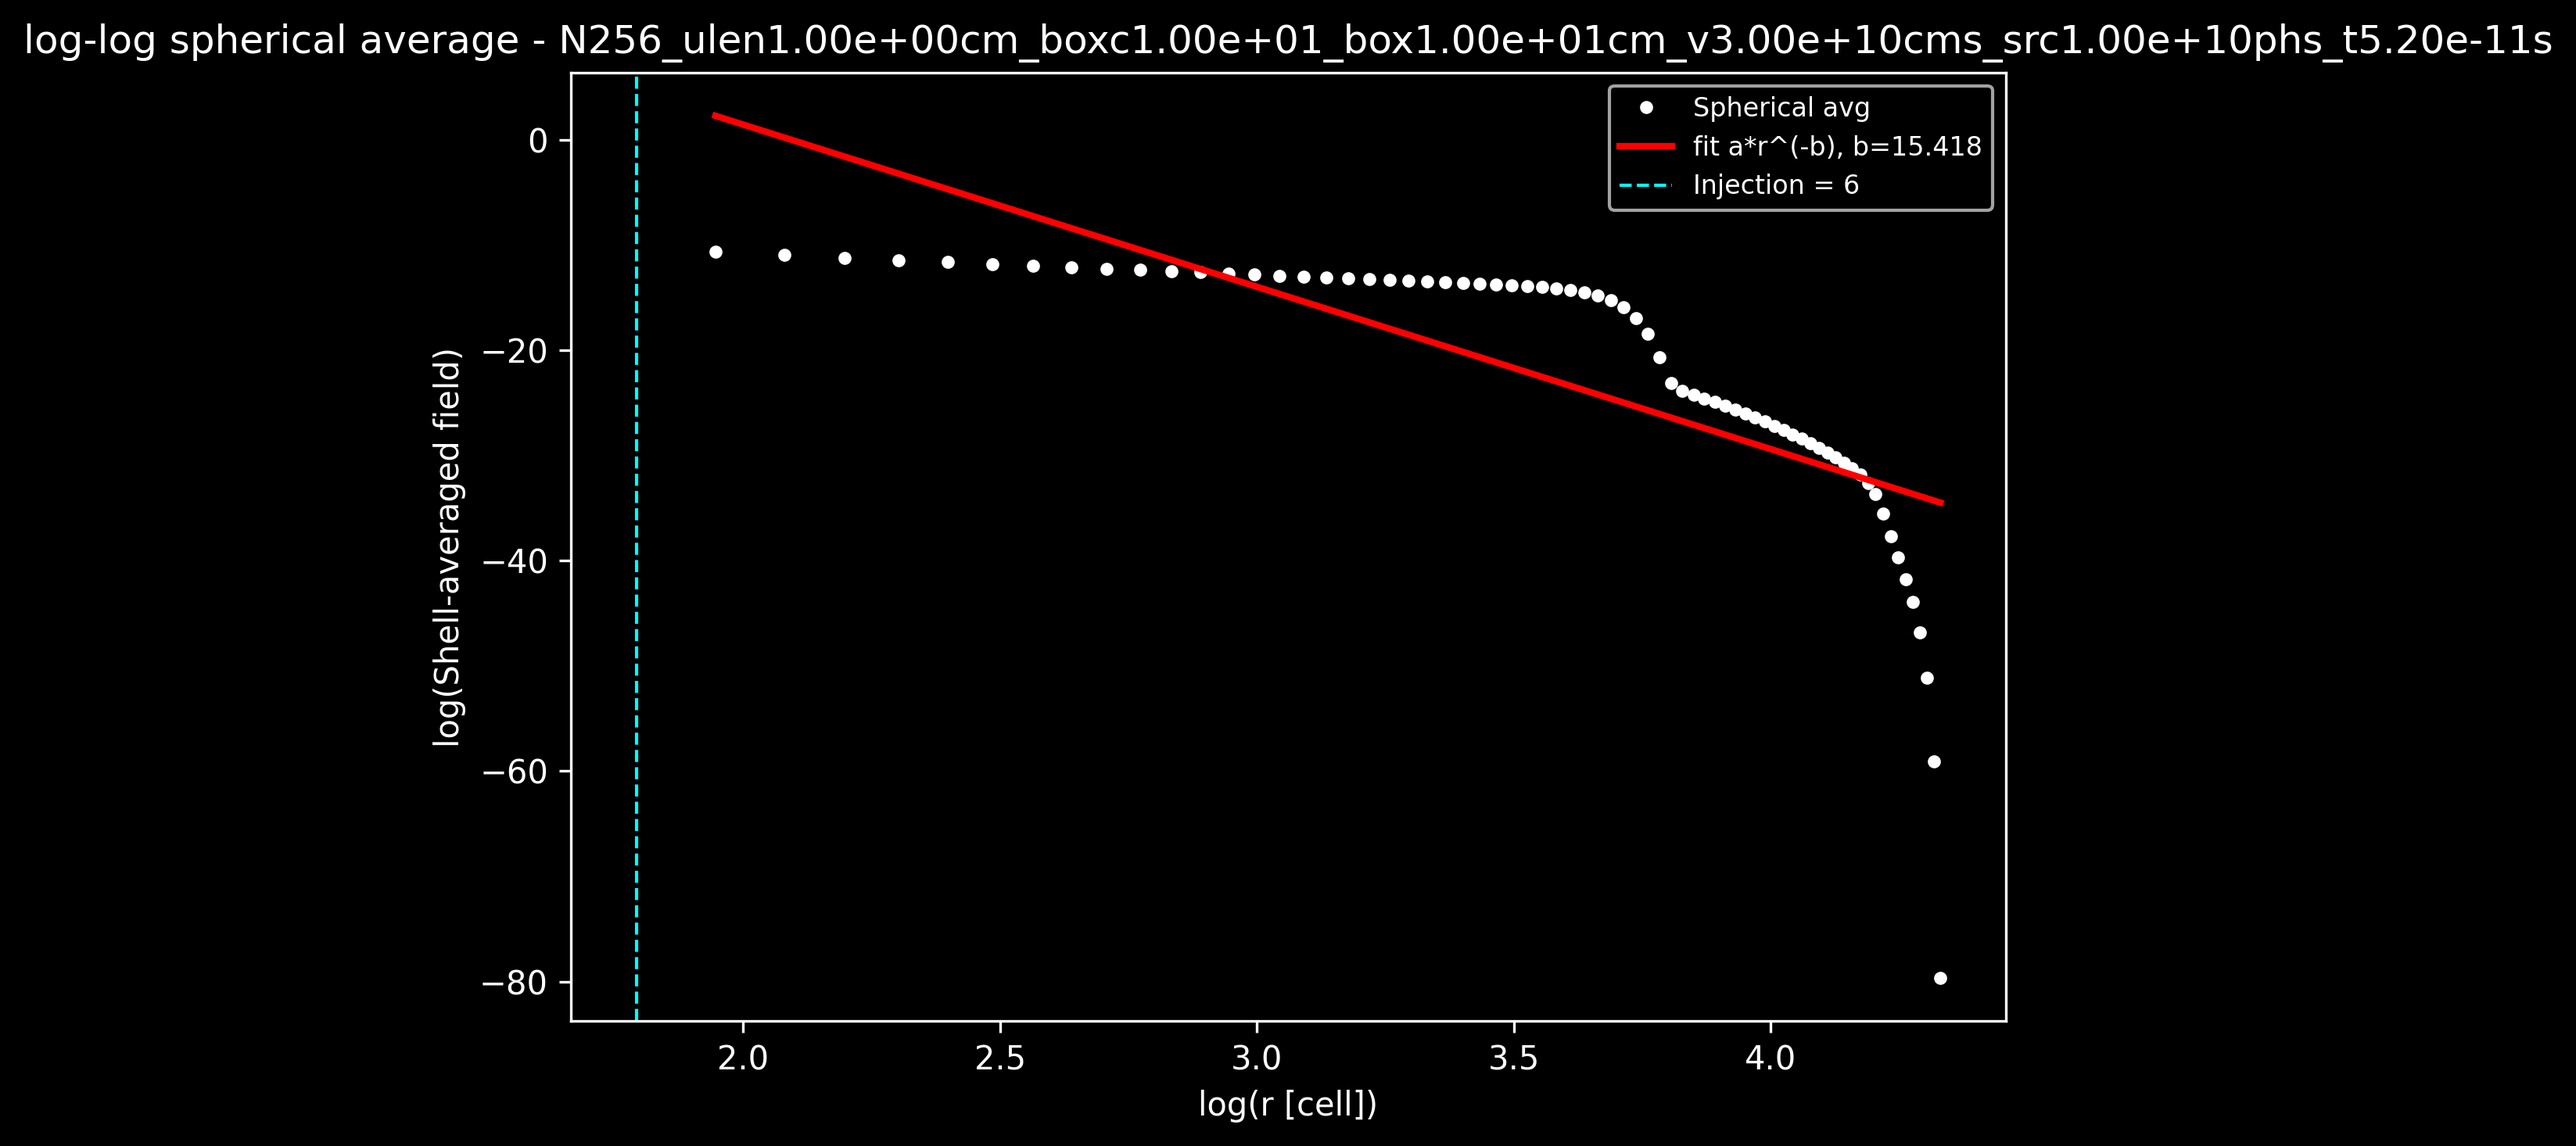
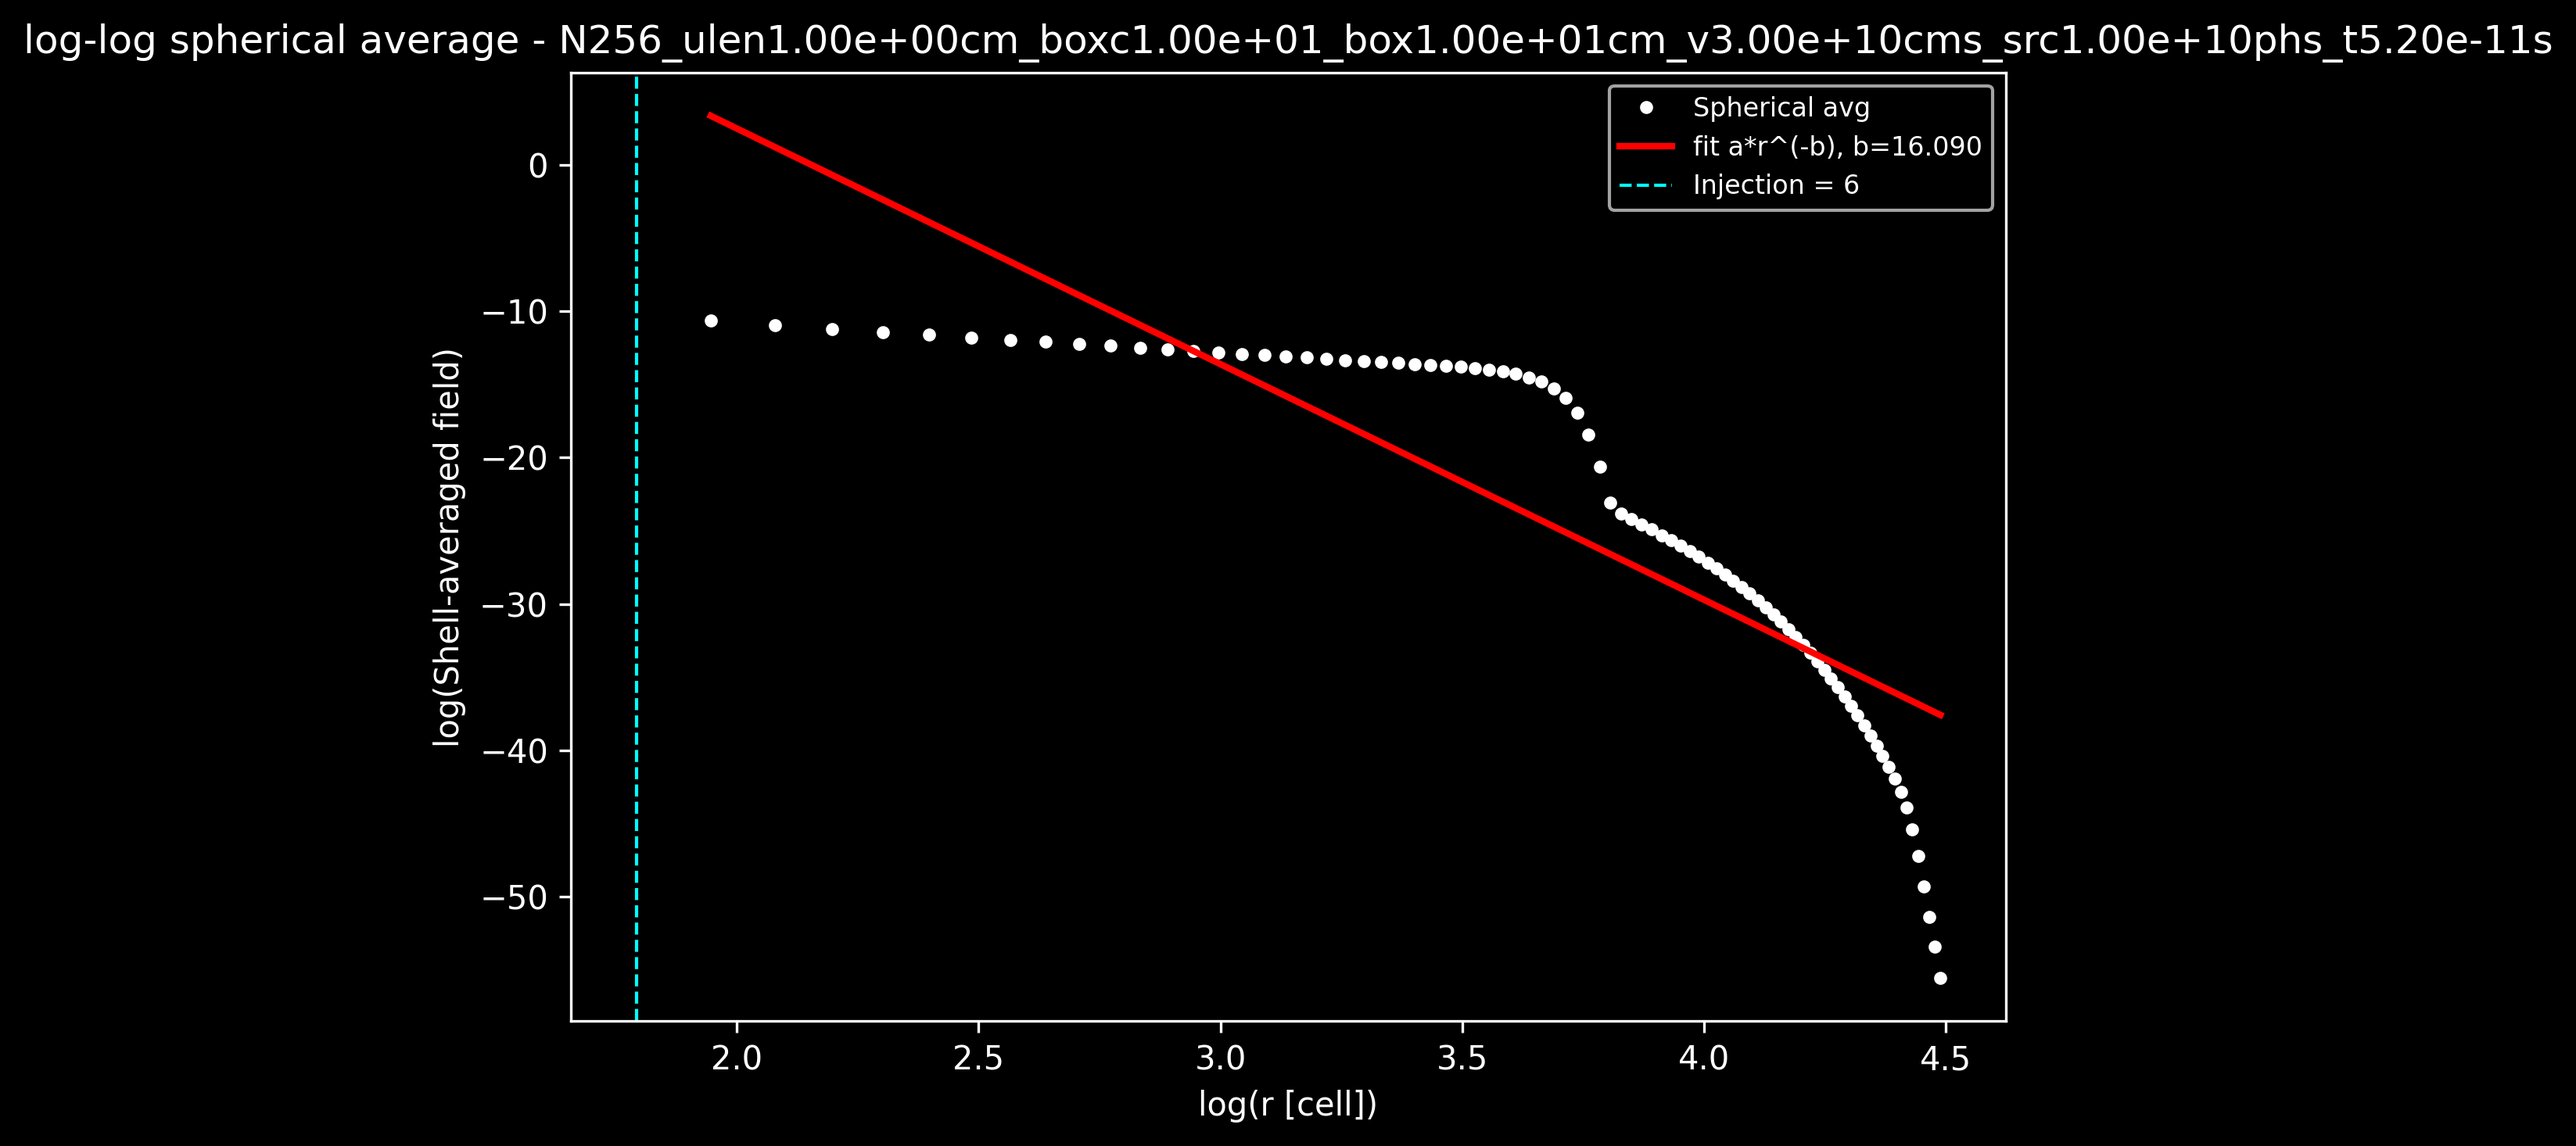
fix units choice different km pc etc ...

diff --git a/examples/athena/reference_regression_smooth_units.py b/examples/athena/reference_regression_smooth_units.py
@@ -1,33 +1,33 @@
 """
 RAMSES-RT point-source test, with units that match what the solver actually does.
 
-UNIT CONVENTION (new, unit-agnostic)
--------------------------------------
-Instead of forcing centimeters, every physical length/velocity/time input is now
-parsed through UnitParser, so the user can pass ANY supported unit string, e.g.:
+UNIT CONVENTION (new, fully unit-agnostic via UnitParser)
+----------------------------------------------------------
+Every physical length/velocity/time input can now be given in ANY unit known to
+diffhydro.units.registry.UnitParser (cm, m, km, pc, kpc for length; cm/s, m/s,
+km/s for velocity; s for time; ...). Each input is parsed once, converted to cgs
+immediately, and everything downstream (dx_code, CodeUnits, the solver, the
+plots) only ever sees cgs values -- so changing the unit of an input is
+completely transparent and never requires touching the rest of the script.
 
-    ULEN="1 km"        ULEN="0.05 cm"      ULEN="3.2e-3 pc"
-    BOXPHYS="10 km"    BOXPHYS="3.2 cm"    BOXPHYS="1e-2 pc"
-    UVEL="3e10 cm/s"   UVEL="3e5 km/s"
-    TPHYS="5.2e-11 s"
+    old :   unit_length   = box_width_phys / N      (1 cell = 1 code unit,
+                                                        dx_code == 1 enforced)
+    new:   box_width_phys_cgs = box_width_code * unit_length_phys_cgs
+           dx_code            = box_width_code / N     (arbitrary dx_code)
 
-Internally, everything is converted to cgs (cm, cm/s, s, g, ...) immediately after
-parsing, so the rest of the pipeline (dx_code, CodeUnits, the solver, the plots)
-is completely unaware of which unit the user originally chose. This is what makes
-the unit change "smooth": you only ever touch the *_cgs variables downstream.
+The two FREE inputs are now
+  * unit_length_phys : physical size of ONE code length unit, given as a
+                        free string with any supported unit, e.g. "1 km",
+                        "0.05 cm", "3.2e-3 pc",
+  * box_width_phys   : physical box size, also a free unit string
+                        (e.g. "10 km", "3.2 cm"), takes precedence over
+                        box_width_code if both are given,
+and both the physical box size and the cell size follow from them, always
+expressed internally in cgs (cm).
 
-    box_width_phys_cgs = box_width_code * unit_length_phys_cgs   # cm
-    dx_code            = box_width_code / N
-    dx_phys_cgs        = dx_code * unit_length_phys_cgs          # cm
-
-The two FREE inputs remain:
-  * unit_length_phys (any length unit string) : physical size of ONE code length unit,
-  * box_width_code                            : box size expressed in code length units,
-OR you can instead give box_width_phys directly (any length unit string) and
-box_width_code is derived from it -- both entry points are supported below.
-
-Consequence: dx_code is generally != 1, so it must be passed explicitly to
-EVERYTHING that contains a dx, otherwise the solver falls back to its default dx_o = 1:
+Consequence: dx_code is generally != 1, so it must be passed explicitly
+to EVERYTHING that contains a dx, otherwise the solver falls back to its
+default dx_o = 1:
 
   * hydro(dx=dx_code)                        -> flux divergence, rhs/dx_o
   * ConvectiveFlux_Radiative_transfer(dx=)   -> CFL, dt = cfl / (ndim*c/dx)
@@ -36,19 +36,21 @@ EVERYTHING that contains a dx, otherwise the solver falls back to its default dx
 And the sol[0] field (E_gamma) is a photon DENSITY in code units
 (photons per code-volume unit), not "photons per cell":
 
-    photons per cell   = E_code * dx_code**3
-    n_gamma [cm^-3]     = E_code / cu.L_cgs**3      (= photons_per_cell / dx_phys_cgs**3)
-    photons in the box  = sum(E_code) * dx_code**3
+    photons per cell    = E_code * dx_code**3
+    n_gamma [cm^-3]      = E_code / cu.L_cgs**3      (= photons_per_cell / dx_phys_cgs**3)
+    photons in the box   = sum(E_code) * dx_code**3
 
-All the diagnostics/plotting below work with E_cell (photons per cell), which is
-invariant under a change of unit convention.
+All the diagnostics/plotting below work with E_cell (photons per cell), which
+is invariant under a change of unit convention.
 
-Environment variables:
+Environment variables (ULEN, BOXPHYS, UVEL, TPHYS accept ANY unit string
+recognized by UnitParser, e.g. "1 km", "3.2 cm", "3e5 km/s", "5.2e-11 s"):
   GPU, N, ULEN, BOXPHYS, BOXCODE, UVEL, SRC, TPHYS, EPS, MAXDT, NSTEP,
   RTRUNC_AVG, RTRUNC_FIT
 
-  ULEN / BOXPHYS / UVEL / TPHYS accept full unit strings (e.g. "1 km", "3.2 cm",
-  "3e10 cm/s", "5.2e-11 s"). If BOXPHYS is set, it takes precedence over BOXCODE.
+If BOXPHYS is set, it takes precedence over BOXCODE. SRC (photons/s) has no
+length/mass/time dimension in the unit table, so it stays a plain float
+(interpreted as cgs photons/s).
 """
 
 import os, sys, math
@@ -70,23 +72,29 @@ from scipy.optimize import curve_fit
 
 import diffhydro as dh
 from diffhydro.units import CodeUnits
+from diffhydro.units.registry import UnitParser  # <- your unit parser/registry
 from diffhydro.equationmanager_radiative_transf_no_chat import EquationManager as EquationManager_RT
 from diffhydro.physics.radiative_transfer import StellarRadiationForce
-from diffhydro.registry import UnitParser  # the small parser you provided
 
 print("Backend:", jax.default_backend(), jax.devices())
 
 up = UnitParser()
 
-def env_quantity(name: str, default: str, expected_dim: str) -> "object":
-    """Read an env var as a free-form quantity string ('1 km', '3.2 cm', ...),
-    parse it with UnitParser and return the ParsedQuantity (value, unit, cgs_value)."""
+def env_quantity(name: str, default: str, expected_dim: str):
+    """Read an env var as a free-form quantity string ('1 km', '3.2 cm',
+    '3e10 cm/s', '5.2e-11 s', ...), parse it with UnitParser, and return the
+    ParsedQuantity (value, unit, dimension, cgs_value). This is the single
+    choke point that makes unit choice fully transparent to the rest of the
+    script: everything downstream only ever reads `.cgs_value`."""
     text = os.environ.get(name, default)
-    return up.parse(text, expected_dim=expected_dim)
+    try:
+        return up.parse(text, expected_dim=expected_dim)
+    except ValueError as exc:
+        raise SystemExit(f"Invalid value for {name}='{text}': {exc}") from exc
 
 # ============================================================================
-# PHYSICAL SETUP  (unit-agnostic: everything below is expressed in cgs
-# immediately after parsing, so any input unit works transparently)
+# PHYSICAL SETUP  (unit-agnostic: any input unit is converted to cgs here,
+# and only cgs values are used from this point on)
 # ============================================================================
 
 size_shape = int(os.environ.get("N", 256))
@@ -99,8 +107,8 @@ unit_length_str      = f"{ulen_q.value:g} {ulen_q.unit}"   # for printing/taggin
 uvel_q = env_quantity("UVEL", "3e10 cm/s", expected_dim="velocity")
 unit_velocity_phys = uvel_q.cgs_value          # cm/s <- 1 code velocity unit
 
-# Box size: either BOXPHYS (any length unit) or BOXCODE (dimensionless code units).
-# BOXPHYS takes precedence if provided.
+# Box size: either BOXPHYS (any length unit string) or BOXCODE (dimensionless
+# code units). BOXPHYS takes precedence if provided.
 if "BOXPHYS" in os.environ:
     boxphys_q = env_quantity("BOXPHYS", "3.2 cm", expected_dim="length")
     box_width_phys_cgs = boxphys_q.cgs_value                 # cm
@@ -119,10 +127,11 @@ cell_volume_cm3  = dx_phys_cgs ** 3                      # cell volume, cm^3
 
 # Source rate: photons/s has no length/mass/time dimension in the unit table,
 # so it is kept as a plain float (cgs photons/s by convention).
-source_rate_phys = float(os.environ.get("SRC", 1e15))    # photons / s
+source_rate_phys = float(os.environ.get("SRC", 1e10))    # photons / s
 
 # ct must stay inside the (periodic) box: ct < box/2 -> t < box/(2c).
-tphys_q = env_quantity("TPHYS", "5.2e-9 s", expected_dim="time")
+# The original t = 5.2e-11 s gives ct = 1.56 cm = 0.49 box widths for box = 3.2 cm.
+tphys_q = env_quantity("TPHYS", "5.2e-11 s", expected_dim="time")
 t_phys = tphys_q.cgs_value   # s
 
 # --- code units: 1 code length unit = unit_length_phys_cgs cm --------------
@@ -170,7 +179,7 @@ print(f"  output dir            = {BASE_OUTPUT_DIR}")
 print("=" * 70)
 print("  --- user-facing inputs (any unit, auto-converted to cgs) ---")
 print(f"  ULEN input            = '{unit_length_str}'  -> {unit_length_phys_cgs:.6e} cm")
-print(f"  BOX  input            = '{box_width_str}'")
+print(f"  BOX  input            = '{box_width_str}'    -> {box_width_phys_cgs:.6e} cm")
 print(f"  UVEL input            = '{uvel_q.value:g} {uvel_q.unit}' -> {unit_velocity_phys:.6e} cm/s")
 print(f"  TPHYS input           = '{tphys_q.value:g} {tphys_q.unit}' -> {t_phys:.6e} s")
 print("  --- convention box_size = box_width_code * unit_length ---")
@@ -203,7 +212,7 @@ print("=" * 70)
 # get_conservatives_from_primitives). Since E_code = photons_per_cell /
 # dx_code**3, changing unit_length changes the field amplitude and therefore
 # the part of the profile that gets clipped by eps: eps must stay << typical E_code.
-eps_code = float(os.environ.get("EPS", 1e-10))
+eps_code = float(os.environ.get("EPS", 1e-20))
 eq_test = EquationManager_RT(
     light_speed=light_speed_code,
     mesh_shape=(size_shape, size_shape, size_shape),
@@ -265,7 +274,7 @@ params = {
 }
 sol_test = jnp.zeros((4, size_shape, size_shape, size_shape))
 
-print(f"\\nRunning to t = {t_phys:.3e} s = {time_code:.3e} code units ...")
+print(f"\nRunning to t = {t_phys:.3e} s = {time_code:.3e} code units ...")
 field_test, _, _, dt_hist, n_steps = hydrosim_test.evolve_till_time(
     cp.deepcopy(sol_test), params, time_code
 )
@@ -344,6 +353,7 @@ fig.colorbar(im, ax=ax, label="photons per cell")
 plt.tight_layout()
 out = os.path.join(BASE_OUTPUT_DIR, f"field_test_fixed_units_{run_tag}.png")
 plt.savefig(out, dpi=150, bbox_inches="tight")
+plt.show()
 print("wrote", out)
 
 # raw solver field = density in code units, axes in cell indices
@@ -356,6 +366,7 @@ fig.colorbar(im, ax=ax, label="photons per code volume")
 plt.tight_layout()
 out = os.path.join(BASE_OUTPUT_DIR, f"field_test_fixed_units_{run_tag}_brut.png")
 plt.savefig(out, dpi=150, bbox_inches="tight")
+plt.show()
 print("wrote", out)
 
 fig, ax = plt.subplots(figsize=(6, 5))
@@ -367,6 +378,7 @@ fig.colorbar(im, ax=ax, label="log10 photons per code volume")
 plt.tight_layout()
 out = os.path.join(BASE_OUTPUT_DIR, f"field_test_fixed_units_{run_tag}_brut_log.png")
 plt.savefig(out, dpi=150, bbox_inches="tight")
+plt.show()
 print("wrote", out)
 
 # ============================================================================
@@ -396,10 +408,11 @@ ax.set_ylabel("x [cm]")
 ax.set_title(f"Photon number density, t = {t_phys:.2e} s  "
              f"(ct = {c_cgs*t_phys/dx_phys_cgs:.0f} cells)")
 cbar = fig.colorbar(im, ax=ax)
-cbar.set_label(r"$n_\\gamma$  [photons cm$^{-3}$]")
+cbar.set_label(r"$n_\gamma$  [photons cm$^{-3}$]")
 plt.tight_layout()
 out = os.path.join(BASE_OUTPUT_DIR, f"field_test_density_cm3_{run_tag}.png")
 plt.savefig(out, dpi=150, bbox_inches="tight")
+plt.show()
 print("wrote", out)
 
 # ============================================================================
@@ -488,6 +501,7 @@ def analyze_inverse_r2(field_3d, size_shape, cell_size_phys, tag,
     ax.legend(fontsize=8)
     plt.tight_layout()
     plt.savefig(f"{output_dir}/loglog_spherical_average_{tag}.png", dpi=300, bbox_inches="tight")
+    plt.show()
 
     fig, ax = plt.subplots(figsize=(7, 5), facecolor="black")
     ax.set_facecolor("black")
@@ -498,6 +512,7 @@ def analyze_inverse_r2(field_3d, size_shape, cell_size_phys, tag,
     ax.set_ylabel("Shell-averaged field value")
     ax.set_title(f"Linear spherical average - {tag}")
     ax.legend(fontsize=8)
+    plt.show()
     plt.tight_layout()
     plt.savefig(f"{output_dir}/linear_spherical_average_{tag}.png", dpi=300, bbox_inches="tight")
 
@@ -551,6 +566,7 @@ def value_average_radius(field_3d, size_shape, cell_size_phys, tag,
     ax.grid(which="both", color="0.25", ls="--", lw=0.5)
     plt.tight_layout()
     plt.savefig(f"{output_dir}/loglog_spherical_average_{tag}_brut.png", dpi=300, bbox_inches="tight")
+    plt.show()
 
     fig, ax = plt.subplots(figsize=(7, 5), facecolor="black")
     ax.set_facecolor("black")
@@ -562,7 +578,7 @@ def value_average_radius(field_3d, size_shape, cell_size_phys, tag,
     ax.legend(fontsize=8)
     plt.tight_layout()
     plt.savefig(f"{output_dir}/linear_spherical_average_{tag}_brut.png", dpi=300, bbox_inches="tight")
-
+    plt.show()
     return {
         "tag": tag, "r_sph": r_sph, "y_sph": y_sph, "r_valid": r_valid,
         "y_valid": y_valid, "x_valid": x_valid,
@@ -585,7 +601,7 @@ evolve_value_radius_result = value_average_radius(
     size_shape=size_shape,
     cell_size_phys=dx_phys_cgs,
     tag=run_tag,
-    radius_truncation=clamp_truncation(int(os.environ.get("RTRUNC_AVG", 157)), "avg"),
+    radius_truncation=clamp_truncation(int(os.environ.get("RTRUNC_AVG", 250)), "avg"),
     output_dir=BASE_OUTPUT_DIR,
 )
 fit_result = analyze_inverse_r2(
@@ -593,12 +609,12 @@ fit_result = analyze_inverse_r2(
     size_shape=size_shape,
     cell_size_phys=dx_phys_cgs,
     tag=run_tag,
-    radius_truncation=clamp_truncation(int(os.environ.get("RTRUNC_FIT", 80)), "fit"),
+    radius_truncation=clamp_truncation(int(os.environ.get("RTRUNC_FIT", 90)), "fit"),
     output_dir=BASE_OUTPUT_DIR,
 )
 
 if fit_result is not None:
-    print(f"\\nPower-law fit result: n_gamma(r) ~ r^(-{fit_result['b']:.3f})  "
+    print(f"\nPower-law fit result: n_gamma(r) ~ r^(-{fit_result['b']:.3f})  "
           f"(+/- {fit_result['b_err']:.2e})")
 else:
-    print("\\nPower-law fit could not be performed (not enough valid points).")
+    print("\nPower-law fit could not be performed (not enough valid points).")
